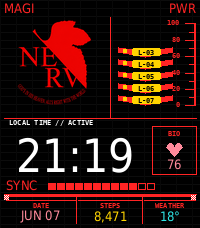
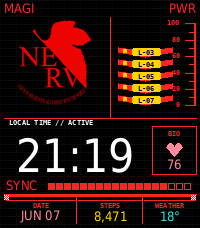
fix: extend sync rail

Changed region(s): [[0.63, 0.7982, 0.96, 0.8596], [0.27, 0.7982, 0.57, 0.8289]]

diff --git a/src/c/pebble-watchface.c b/src/c/pebble-watchface.c
@@ -379,13 +379,13 @@ static void draw_sync_ratio(GContext *ctx, int y) {
   /* System font labels: custom 1px pixel text can disappear in QEMU. */
   draw_text_box(ctx, "SYNC", GRect(6, y, 38, 14), s_font_chip_small, accent, GTextAlignmentLeft);
 
-  /* Chunky 12-block rail. At Pebble scale, 26 micro-blocks read as noise. */
+  /* Long chunky rail. At Pebble scale, micro-blocks read as noise. */
   const int bar_x = 48;
   const int bar_y = y + 5;
-  const int block_w = 7;
+  const int block_w = 6;
   const int block_h = 6;
   const int gap = 2;
-  const int blocks = 12;
+  const int blocks = 18;
   const int lit_blocks = (sync_pct * blocks + 50) / 100;
 
   graphics_context_set_stroke_width(ctx, 1);

diff --git a/scripts/render_preview.py b/scripts/render_preview.py
@@ -104,7 +104,7 @@ def draw_bio(draw, box=(152, 132, 44, 50), hr=76):
 def draw_sync(draw, y=178, pct=85):
     text(draw, (6, y - 1), "SYNC", RED, FONT_SMALL)
 
-    bar_x, bar_y, block_w, block_h, gap, blocks = 48, y + 5, 7, 6, 2, 12
+    bar_x, bar_y, block_w, block_h, gap, blocks = 48, y + 5, 6, 6, 2, 18
     lit_blocks = int((pct * blocks + 50) / 100)
     for i in range(blocks):
         bx = bar_x + i * (block_w + gap)
